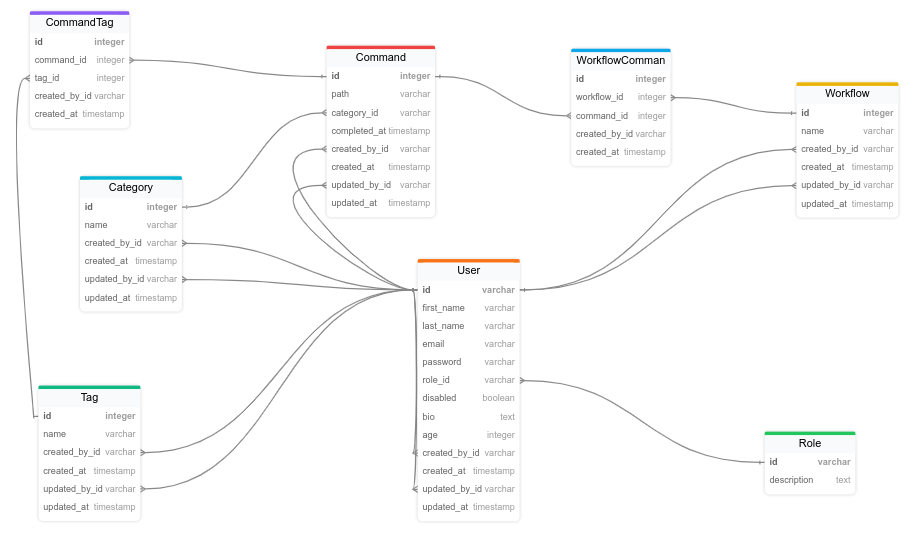
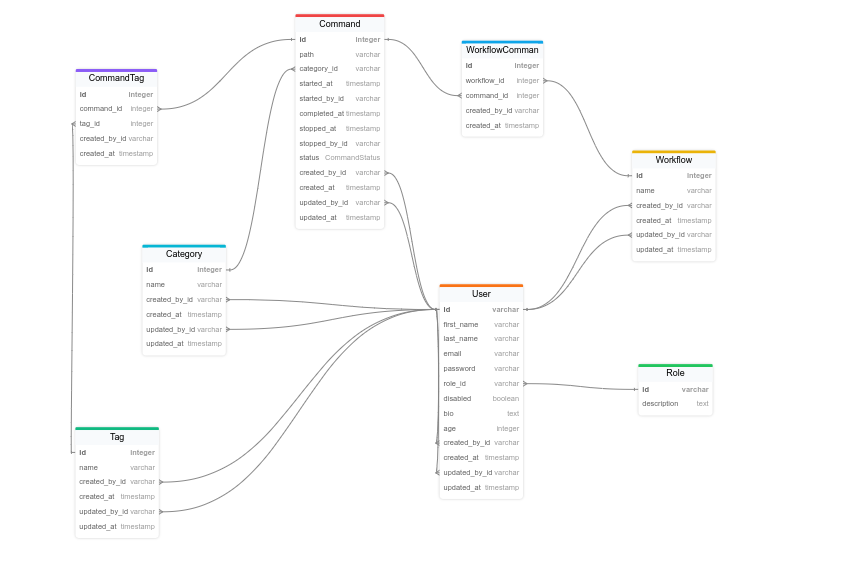
Test of exam 2024/06/13

diff --git a/exams/2024/07-05/solution/model.py b/exams/2024/07-05/solution/model.py
@@ -166,6 +166,20 @@ class Command(CommandPublic, table=True):
             "lazy": "joined",
         },
     )
+    started_by: "User" = Relationship(
+        back_populates="commands_started",
+        sa_relationship_kwargs={
+            "primaryjoin": "Command.started_by_id==User.id",
+            "lazy": "joined",
+        },
+    )
+    stopped_by: "User" = Relationship(
+        back_populates="commands_stopped",
+        sa_relationship_kwargs={
+            "primaryjoin": "Command.stopped_by_id==User.id",
+            "lazy": "joined",
+        },
+    )
 
     def start(self: Self) -> None:
         if self.status == CommandStatus.STARTED:
@@ -334,6 +348,20 @@ class User(UserCreate, BasePublic, table=True):
         back_populates="updated_by",
         sa_relationship_kwargs={
             "primaryjoin": "Command.updated_by_id==User.id",
+            "lazy": "joined",
+        },
+    )
+    commands_started: list["Command"] = Relationship(
+        back_populates="started_by",
+        sa_relationship_kwargs={
+            "primaryjoin": "Command.stopped_by_id==User.id",
+            "lazy": "joined",
+        },
+    )
+    commands_stopped: list["Command"] = Relationship(
+        back_populates="stopped_by",
+        sa_relationship_kwargs={
+            "primaryjoin": "Command.stopped_by_id==User.id",
             "lazy": "joined",
         },
     )
